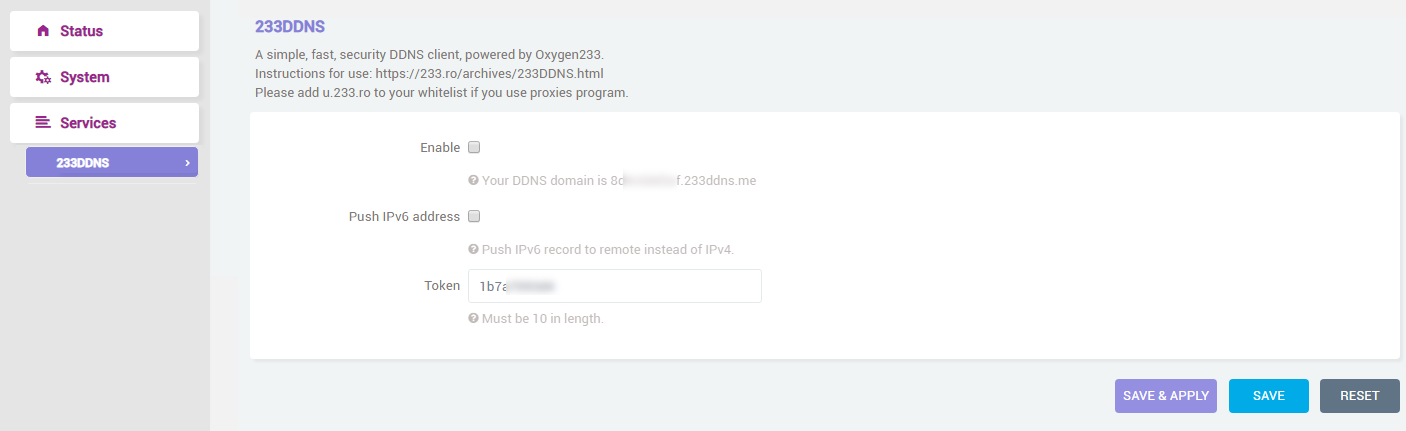
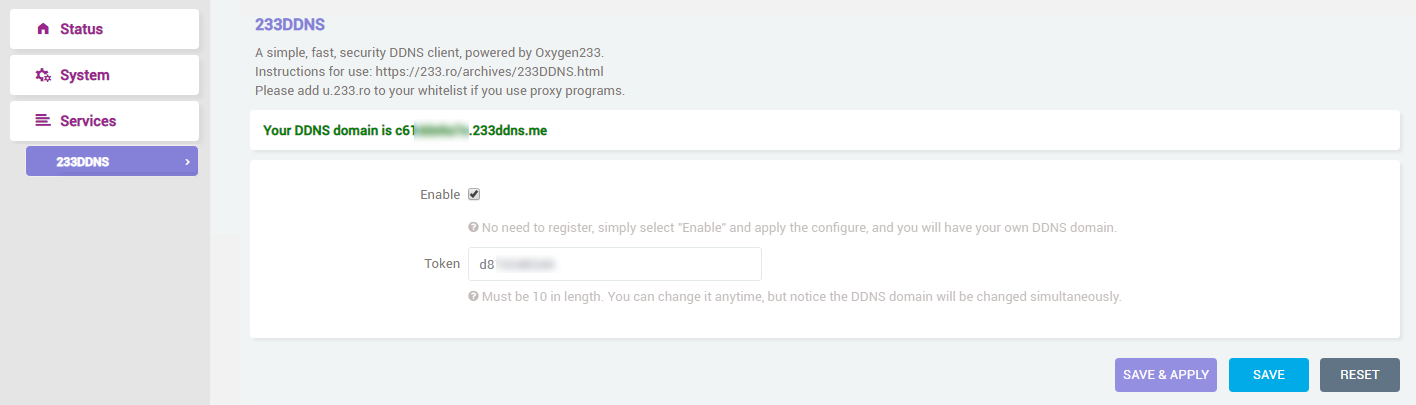
bump release

diff --git a/luasrc/view/233ddns/233ddns_status.htm b/luasrc/view/233ddns/233ddns_status.htm
@@ -1,0 +1,51 @@
+<script type="text/javascript">//<![CDATA[
+XHR.poll(3, '<%=url([[admin]], [[services]], [[233ddns]], [[status]])%>', null,
+	function(x, data) {
+		var tb = document.getElementById('233ddns_status');
+		if (data && tb) {
+			if (data.running) {
+				tb.innerHTML = '<em><b><font color=green><%:Your DDNS domain is%> '+get_domain()+'.233ddns.me</font></b></em>';
+			} else {
+				tb.innerHTML = '<em><b><font color=red>233DDNS <%:NOT RUNNING%></font></b></em>';
+			}
+		}
+	}
+);
+
+function get_domain(){
+	var token = '<%=luci.sys.exec("uci get 233ddns.@233ddns[0].token 2>/dev/null"):gsub("^%s*(.-)%s*$", "%1")%>';
+	var domain = SHA512(token).substring(0,10);
+	return domain;
+};
+
+function SHA512(str){function int64(msint_32,lsint_32){this.highOrder=msint_32;this.lowOrder=lsint_32;}
+var H=[new int64(0x6a09e667,0xf3bcc908),new int64(0xbb67ae85,0x84caa73b),new int64(0x3c6ef372,0xfe94f82b),new int64(0xa54ff53a,0x5f1d36f1),new int64(0x510e527f,0xade682d1),new int64(0x9b05688c,0x2b3e6c1f),new int64(0x1f83d9ab,0xfb41bd6b),new int64(0x5be0cd19,0x137e2179)];var K=[new int64(0x428a2f98,0xd728ae22),new int64(0x71374491,0x23ef65cd),new int64(0xb5c0fbcf,0xec4d3b2f),new int64(0xe9b5dba5,0x8189dbbc),new int64(0x3956c25b,0xf348b538),new int64(0x59f111f1,0xb605d019),new int64(0x923f82a4,0xaf194f9b),new int64(0xab1c5ed5,0xda6d8118),new int64(0xd807aa98,0xa3030242),new int64(0x12835b01,0x45706fbe),new int64(0x243185be,0x4ee4b28c),new int64(0x550c7dc3,0xd5ffb4e2),new int64(0x72be5d74,0xf27b896f),new int64(0x80deb1fe,0x3b1696b1),new int64(0x9bdc06a7,0x25c71235),new int64(0xc19bf174,0xcf692694),new int64(0xe49b69c1,0x9ef14ad2),new int64(0xefbe4786,0x384f25e3),new int64(0x0fc19dc6,0x8b8cd5b5),new int64(0x240ca1cc,0x77ac9c65),new int64(0x2de92c6f,0x592b0275),new int64(0x4a7484aa,0x6ea6e483),new int64(0x5cb0a9dc,0xbd41fbd4),new int64(0x76f988da,0x831153b5),new int64(0x983e5152,0xee66dfab),new int64(0xa831c66d,0x2db43210),new int64(0xb00327c8,0x98fb213f),new int64(0xbf597fc7,0xbeef0ee4),new int64(0xc6e00bf3,0x3da88fc2),new int64(0xd5a79147,0x930aa725),new int64(0x06ca6351,0xe003826f),new int64(0x14292967,0x0a0e6e70),new int64(0x27b70a85,0x46d22ffc),new int64(0x2e1b2138,0x5c26c926),new int64(0x4d2c6dfc,0x5ac42aed),new int64(0x53380d13,0x9d95b3df),new int64(0x650a7354,0x8baf63de),new int64(0x766a0abb,0x3c77b2a8),new int64(0x81c2c92e,0x47edaee6),new int64(0x92722c85,0x1482353b),new int64(0xa2bfe8a1,0x4cf10364),new int64(0xa81a664b,0xbc423001),new int64(0xc24b8b70,0xd0f89791),new int64(0xc76c51a3,0x0654be30),new int64(0xd192e819,0xd6ef5218),new int64(0xd6990624,0x5565a910),new int64(0xf40e3585,0x5771202a),new int64(0x106aa070,0x32bbd1b8),new int64(0x19a4c116,0xb8d2d0c8),new int64(0x1e376c08,0x5141ab53),new int64(0x2748774c,0xdf8eeb99),new int64(0x34b0bcb5,0xe19b48a8),new int64(0x391c0cb3,0xc5c95a63),new int64(0x4ed8aa4a,0xe3418acb),new int64(0x5b9cca4f,0x7763e373),new int64(0x682e6ff3,0xd6b2b8a3),new int64(0x748f82ee,0x5defb2fc),new int64(0x78a5636f,0x43172f60),new int64(0x84c87814,0xa1f0ab72),new int64(0x8cc70208,0x1a6439ec),new int64(0x90befffa,0x23631e28),new int64(0xa4506ceb,0xde82bde9),new int64(0xbef9a3f7,0xb2c67915),new int64(0xc67178f2,0xe372532b),new int64(0xca273ece,0xea26619c),new int64(0xd186b8c7,0x21c0c207),new int64(0xeada7dd6,0xcde0eb1e),new int64(0xf57d4f7f,0xee6ed178),new int64(0x06f067aa,0x72176fba),new int64(0x0a637dc5,0xa2c898a6),new int64(0x113f9804,0xbef90dae),new int64(0x1b710b35,0x131c471b),new int64(0x28db77f5,0x23047d84),new int64(0x32caab7b,0x40c72493),new int64(0x3c9ebe0a,0x15c9bebc),new int64(0x431d67c4,0x9c100d4c),new int64(0x4cc5d4be,0xcb3e42b6),new int64(0x597f299c,0xfc657e2a),new int64(0x5fcb6fab,0x3ad6faec),new int64(0x6c44198c,0x4a475817)];var W=new Array(64);var a,b,c,d,e,f,g,h,i,j;var T1,T2;var charsize=8;function utf8_encode(str){return unescape(encodeURIComponent(str));}
+function str2binb(str){var bin=[];var mask=(1<<charsize)-1;var len=str.length*charsize;for(var i=0;i<len;i+=charsize){bin[i>>5]|=(str.charCodeAt(i/charsize)&mask)<<(32-charsize-(i % 32));}
+return bin;}
+function binb2hex(binarray){var hex_tab='0123456789abcdef';var str='';var length=binarray.length*4;var srcByte;for(var i=0;i<length;i+=1){srcByte=binarray[i>>2]>>((3-(i % 4))*8);str+=hex_tab.charAt((srcByte>>4)&0xF)+hex_tab.charAt(srcByte&0xF);}
+return str;}
+function safe_add_2(x,y){var lsw,msw,lowOrder,highOrder;lsw=(x.lowOrder&0xFFFF)+(y.lowOrder&0xFFFF);msw=(x.lowOrder>>>16)+(y.lowOrder>>>16)+(lsw>>>16);lowOrder=((msw&0xFFFF)<<16)|(lsw&0xFFFF);lsw=(x.highOrder&0xFFFF)+(y.highOrder&0xFFFF)+(msw>>>16);msw=(x.highOrder>>>16)+(y.highOrder>>>16)+(lsw>>>16);highOrder=((msw&0xFFFF)<<16)|(lsw&0xFFFF);return new int64(highOrder,lowOrder);}
+function safe_add_4(a,b,c,d){var lsw,msw,lowOrder,highOrder;lsw=(a.lowOrder&0xFFFF)+(b.lowOrder&0xFFFF)+(c.lowOrder&0xFFFF)+(d.lowOrder&0xFFFF);msw=(a.lowOrder>>>16)+(b.lowOrder>>>16)+(c.lowOrder>>>16)+(d.lowOrder>>>16)+(lsw>>>16);lowOrder=((msw&0xFFFF)<<16)|(lsw&0xFFFF);lsw=(a.highOrder&0xFFFF)+(b.highOrder&0xFFFF)+(c.highOrder&0xFFFF)+(d.highOrder&0xFFFF)+(msw>>>16);msw=(a.highOrder>>>16)+(b.highOrder>>>16)+(c.highOrder>>>16)+(d.highOrder>>>16)+(lsw>>>16);highOrder=((msw&0xFFFF)<<16)|(lsw&0xFFFF);return new int64(highOrder,lowOrder);}
+function safe_add_5(a,b,c,d,e){var lsw,msw,lowOrder,highOrder;lsw=(a.lowOrder&0xFFFF)+(b.lowOrder&0xFFFF)+(c.lowOrder&0xFFFF)+(d.lowOrder&0xFFFF)+(e.lowOrder&0xFFFF);msw=(a.lowOrder>>>16)+(b.lowOrder>>>16)+(c.lowOrder>>>16)+(d.lowOrder>>>16)+(e.lowOrder>>>16)+(lsw>>>16);lowOrder=((msw&0xFFFF)<<16)|(lsw&0xFFFF);lsw=(a.highOrder&0xFFFF)+(b.highOrder&0xFFFF)+(c.highOrder&0xFFFF)+(d.highOrder&0xFFFF)+(e.highOrder&0xFFFF)+(msw>>>16);msw=(a.highOrder>>>16)+(b.highOrder>>>16)+(c.highOrder>>>16)+(d.highOrder>>>16)+(e.highOrder>>>16)+(lsw>>>16);highOrder=((msw&0xFFFF)<<16)|(lsw&0xFFFF);return new int64(highOrder,lowOrder);}
+function maj(x,y,z){return new int64((x.highOrder&y.highOrder)^(x.highOrder&z.highOrder)^(y.highOrder&z.highOrder),(x.lowOrder&y.lowOrder)^(x.lowOrder&z.lowOrder)^(y.lowOrder&z.lowOrder));}
+function ch(x,y,z){return new int64((x.highOrder&y.highOrder)^(~x.highOrder&z.highOrder),(x.lowOrder&y.lowOrder)^(~x.lowOrder&z.lowOrder));}
+function rotr(x,n){if(n<=32){return new int64((x.highOrder>>>n)|(x.lowOrder<<(32-n)),(x.lowOrder>>>n)|(x.highOrder<<(32-n)));}else{return new int64((x.lowOrder>>>n)|(x.highOrder<<(32-n)),(x.highOrder>>>n)|(x.lowOrder<<(32-n)));}}
+function sigma0(x){var rotr28=rotr(x,28);var rotr34=rotr(x,34);var rotr39=rotr(x,39);return new int64(rotr28.highOrder^rotr34.highOrder^rotr39.highOrder,rotr28.lowOrder^rotr34.lowOrder^rotr39.lowOrder);}
+function sigma1(x){var rotr14=rotr(x,14);var rotr18=rotr(x,18);var rotr41=rotr(x,41);return new int64(rotr14.highOrder^rotr18.highOrder^rotr41.highOrder,rotr14.lowOrder^rotr18.lowOrder^rotr41.lowOrder);}
+function gamma0(x){var rotr1=rotr(x,1),rotr8=rotr(x,8),shr7=shr(x,7);return new int64(rotr1.highOrder^rotr8.highOrder^shr7.highOrder,rotr1.lowOrder^rotr8.lowOrder^shr7.lowOrder);}
+function gamma1(x){var rotr19=rotr(x,19);var rotr61=rotr(x,61);var shr6=shr(x,6);return new int64(rotr19.highOrder^rotr61.highOrder^shr6.highOrder,rotr19.lowOrder^rotr61.lowOrder^shr6.lowOrder);}
+function shr(x,n){if(n<=32){return new int64(x.highOrder>>>n,x.lowOrder>>>n|(x.highOrder<<(32-n)));}else{return new int64(0,x.highOrder<<(32-n));}}
+str=utf8_encode(str);strlen=str.length*charsize;str=str2binb(str);str[strlen>>5]|=0x80<<(24-strlen % 32);str[(((strlen+128)>>10)<<5)+31]=strlen;for(var i=0;i<str.length;i+=32){a=H[0];b=H[1];c=H[2];d=H[3];e=H[4];f=H[5];g=H[6];h=H[7];for(var j=0;j<80;j++){if(j<16){W[j]=new int64(str[j*2+i],str[j*2+i+1]);}else{W[j]=safe_add_4(gamma1(W[j-2]),W[j-7],gamma0(W[j-15]),W[j-16]);}
+T1=safe_add_5(h,sigma1(e),ch(e,f,g),K[j],W[j]);T2=safe_add_2(sigma0(a),maj(a,b,c));h=g;g=f;f=e;e=safe_add_2(d,T1);d=c;c=b;b=a;a=safe_add_2(T1,T2);}
+H[0]=safe_add_2(a,H[0]);H[1]=safe_add_2(b,H[1]);H[2]=safe_add_2(c,H[2]);H[3]=safe_add_2(d,H[3]);H[4]=safe_add_2(e,H[4]);H[5]=safe_add_2(f,H[5]);H[6]=safe_add_2(g,H[6]);H[7]=safe_add_2(h,H[7]);}
+var binarray=[];for(var i=0;i<H.length;i++){binarray.push(H[i].highOrder);binarray.push(H[i].lowOrder);}
+return binb2hex(binarray);}
+
+//]]>
+</script>
+<style>.mar-10 {margin-left: 50px; margin-right: 10px;}</style>
+<fieldset class="cbi-section">
+	<p id="233ddns_status">
+		<em><%:Collecting data...%></em>
+	</p>
+</fieldset>

diff --git a/README.md b/README.md
@@ -6,11 +6,9 @@
 - - -
 # Instructions for use
 ![Image text](https://raw.githubusercontent.com/project-openwrt/luci-app-233ddns/master/view.png)
-### Dependencies: `busybox`, `coreutils-sha512sum`, `curl`.
-### Simply select "Enable" and apply the configure, now you have a ddns domain for you.
-- Please **keep your token secret**, or anyone can change your DDNS record anytime.
+### Dependencies: `wget`.
+### Simply select "Enable" and apply the configure, now you have a free ddns domain.
+- Please **keep your token secret**, or anyone can change your DDNS record at anytime.
 - The default update frequency is every minute, and you can find the command in the "Scheduled Tasks".
-- You can only add a record that direct to IPv4 or IPv6.<br/>
-Once you pushed your record to remote, you can never change your record from one into another.
-- Token is randomly generated, you can change it anytime.<br/>
+- Token is generated by your MAC address, you can change it anytime.<br/>
 But please attention once you changed it, the subdomain will be changed simultaneously.
